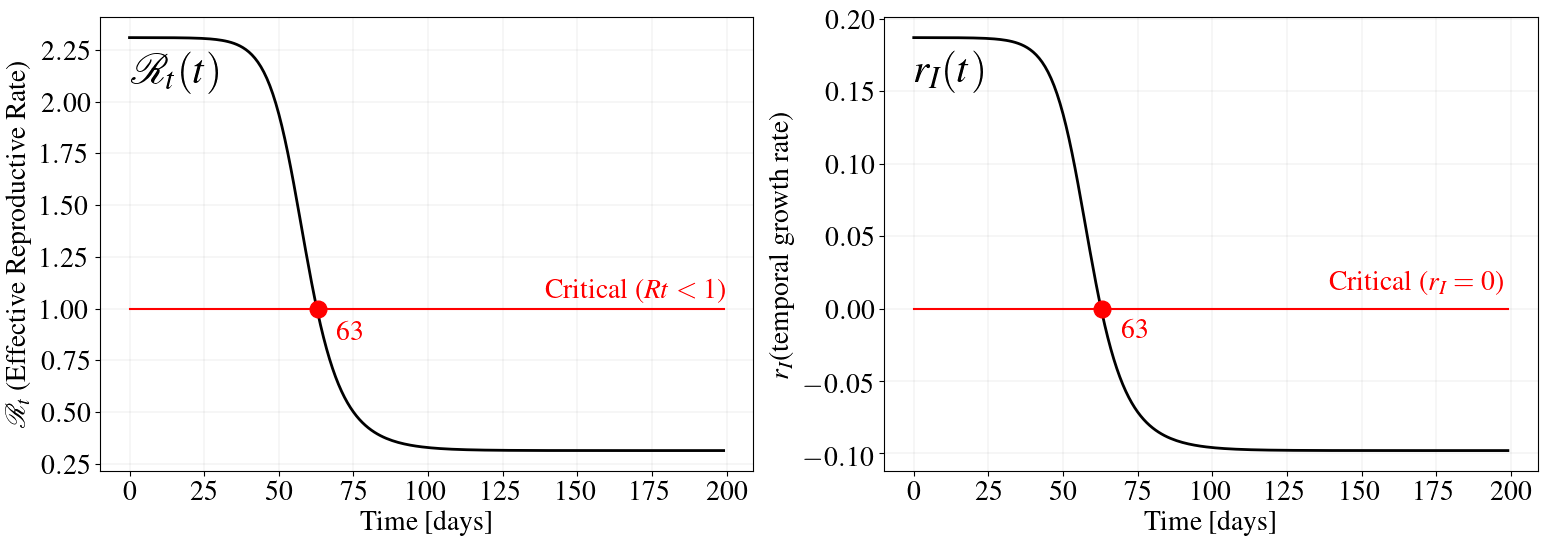
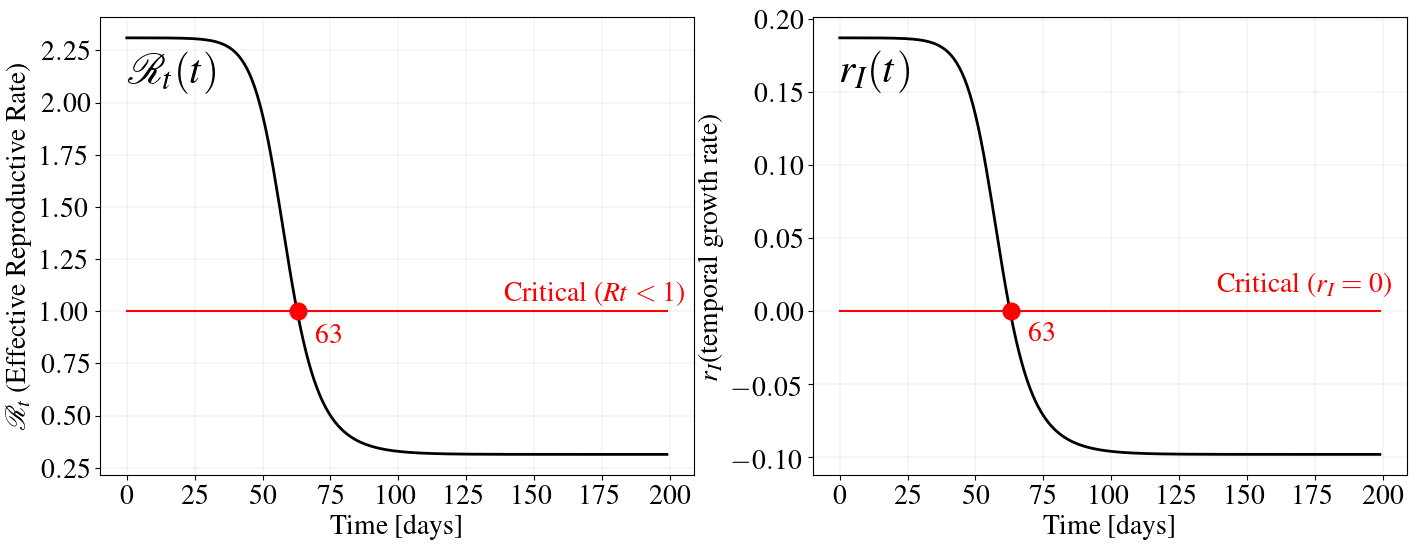
Changes for plots on updated paper

diff --git a/epimodels/plots.py b/epimodels/plots.py
@@ -911,7 +911,7 @@ def plotSIR_evolution(SIRvariables, Plotoptions, **kwargs):
     ax1.set_ylabel('Fraction of Population', fontsize=25)
     if 'x_tick_names' in kwargs:
         plt.xticks(x_tick_numbers, x_tick_names)
-    legend = ax1.legend(fontsize=20)
+    legend = ax1.legend(fontsize=20, loc='center left')
     legend.get_frame().set_alpha(0.5)
     for spine in ('top', 'right', 'bottom', 'left'):
         ax1.spines[spine].set_visible(True)
@@ -922,7 +922,8 @@ def plotSIR_evolution(SIRvariables, Plotoptions, **kwargs):
  
     ax1.grid(True, color='k', alpha=0.2, linewidth = 0.25)       
     fig.subplots_adjust(left=.12, bottom=.14, right=.93, top=0.93)
-    fig.set_size_inches(27.5/2, 16.5/2, forward=True)
+    # fig.set_size_inches(27.5/2, 16.5/2, forward=True)
+    fig.set_size_inches(27.5/2.5, 14.5/2.4, forward=True)
     
     if store_plots:
         plt.savefig(filename + ".png", bbox_inches='tight')
@@ -1021,7 +1022,8 @@ def plotSIR_growth(Svariables, **kwargs):
 
     fig.subplots_adjust(left=.12, bottom=.14, right=.93, top=0.93)
     # fig.set_size_inches(35.5/2, 14.5/2, forward=True)
-    fig.set_size_inches(35.5/2, 11.5/2, forward=True)
+    # fig.set_size_inches(35.5/2, 11.5/2, forward=True)
+    fig.set_size_inches(35.5/2.2, 14.5/2.5, forward=True)
 
     if store_plots:
         plt.savefig(filename + "_growthRates.png", bbox_inches='tight')
@@ -1058,7 +1060,7 @@ def plotSIR_finalEpidemicR0(**kwargs):
     # Plots
     fig0, ax0 = plt.subplots()
     ax0.plot(r0_vals, Sinf_S0, 'r', lw=2, label='Susceptible')
-    ax0.set_ylabel('1 - $S_{\infty}/S_{0}$ (Fraction of Population Infected)', fontsize=20)
+    ax0.set_ylabel('1 - $S_{\infty}/S_{0}$', fontsize=20)
     ax0.set_xlabel('$\mathcal{R}_0$', fontsize=20)
 
     for tick in ax0.xaxis.get_major_ticks():
@@ -1081,7 +1083,8 @@ def plotSIR_finalEpidemicR0(**kwargs):
     ax0.text(4, 0.75, r"${\cal R}_0 \equiv \frac{ \beta } {\gamma}$", fontsize=20, bbox=dict(facecolor='red', alpha=0.15))
     ax0.grid(True, color='k', alpha=0.2, linewidth = 0.25)        
     fig0.subplots_adjust(left=.12, bottom=.14, right=.93, top=0.93)
-    fig0.set_size_inches(25.5/2, 12.5/2, forward=True)
+    # fig0.set_size_inches(25.5/2, 12.5/2, forward=True)
+    fig0.set_size_inches(0.75*(27.5/2.5), 0.75*(14.5/2.4), forward=True)
 
     if store_plots:
         plt.savefig(filename + "_finalEpidemic.png", bbox_inches='tight')
@@ -1867,7 +1870,7 @@ def plotSEIR_evolution(SIRvariables, Plotoptions, **kwargs):
         x_tick_names   = kwargs['x_tick_names']
         x_tick_numbers = np.arange(0, len(T), kwargs['x_tick_step'])
 
-    
+    days           = kwargs['days']
     store_plots    = kwargs['store_plots']
     # Check if x_tick_labels is given
     # x_tick_numbers, x_tick_names = x_tick_labels
@@ -1934,14 +1937,20 @@ def plotSEIR_evolution(SIRvariables, Plotoptions, **kwargs):
         ax1.plot(tc, I_tc/N,'ro', markersize=8)                
         txt_title = r"{Ipeak}: {I_tc:2.4f} {number_scaling} by day {peak_days:10.0f} " 
         I_peak = r"$I_{\rm peak}$"
-        ax1.text(1.1*tc, I_tc/N, txt_title.format(Ipeak = I_peak, I_tc=I_tc/scale, number_scaling=number_scaling,  peak_days= tc), fontsize=20, color="r",  bbox=dict(facecolor='white', alpha=0.85))
 
-        txt_title2 = r"Total Cases: {peak_total:2.4f} {number_scaling} by day {peak_days:10.0f} " 
-        
+
+        if tc > 0.5*days:
+            ax1.text(tc - 0.25*days, (I_tc/N) + 0.05*N, txt_title.format(Ipeak = I_peak, I_tc=I_tc/scale, number_scaling=number_scaling,  peak_days= tc), fontsize=20, color="r",  bbox=dict(facecolor='white', alpha=0.85))
+        else:
+            ax1.text(1.1*tc, I_tc/N, txt_title.format(Ipeak = I_peak, I_tc=I_tc/scale, number_scaling=number_scaling,  peak_days= tc), fontsize=20, color="r",  bbox=dict(facecolor='white', alpha=0.85))        
 
         if show_T:
+            txt_title2 = r"Total Cases: {peak_total:2.4f} {number_scaling} by day {peak_days:10.0f} " 
             ax1.plot(tc, T_tc/N,'ro', markersize=8)
-            ax1.text(1.1*tc, T_tc/N, txt_title2.format(peak_total=T_tc/scale, number_scaling=number_scaling, peak_days= tc), fontsize=20, color="r", bbox=dict(facecolor='white', alpha=0.75))
+            if tc > 0.5*days:
+                ax1.text(tc - 0.25*days, (T_tc/N) + 0.05*N, txt_title2.format(peak_total=T_tc/scale, number_scaling=number_scaling, peak_days= tc), fontsize=20, color="r", bbox=dict(facecolor='white', alpha=0.75))
+            else:
+                ax1.text(1.1*tc, T_tc/N, txt_title2.format(peak_total=T_tc/scale, number_scaling=number_scaling, peak_days= tc), fontsize=20, color="r", bbox=dict(facecolor='white', alpha=0.75))
 
     # Making things beautiful
     ax1.set_xlabel('Time [days]', fontsize=20)
@@ -1959,7 +1968,9 @@ def plotSEIR_evolution(SIRvariables, Plotoptions, **kwargs):
  
     ax1.grid(True, color='k', alpha=0.2, linewidth = 0.25)       
     fig.subplots_adjust(left=.12, bottom=.14, right=.93, top=0.93)
-    fig.set_size_inches(27.5/2, 16.5/2, forward=True)
+    # fig.set_size_inches(27.5/2, 16.5/2, forward=True)
+    # fig.set_size_inches(27.5/2, 14.5/2.2, forward=True)
+    fig.set_size_inches(27.5/2.5, 14.5/2.4, forward=True)
     
     if store_plots:
         plt.savefig(filename + ".png", bbox_inches='tight')
@@ -2015,7 +2026,8 @@ def plotSEIR_growth(St, **kwargs):
             tick.label.set_fontsize(20)         
 
     fig.subplots_adjust(left=.12, bottom=.14, right=.93, top=0.93)
-    fig.set_size_inches(27.5/2, 14.5/2, forward=True)
+    # fig.set_size_inches(27.5/2, 14.5/2, forward=True)
+    fig.set_size_inches(27.5/2.5, 14.5/2.4, forward=True)
 
     if store_plots:
         plt.savefig(filename + "_growthRates.png", bbox_inches='tight')

diff --git a/epimodels/sims.py b/epimodels/sims.py
@@ -78,7 +78,9 @@ def loadSimulationParams(sim_num, scenario, plot_data = 1, header = 'SIR'):
         # Using fraction of population
         N               = 1
         I0, R0          = pow(10,-5), 0    
-        E0              = 10*I0
+        E0              = 10*I0   # Baseline
+        # E0              = I0      # Extreme negative error
+        # E0              = 0.001*N # Extreme positive error
         number_scaling  = 'fraction'
         days            = 200
         gamma_inv       = 7.0  
